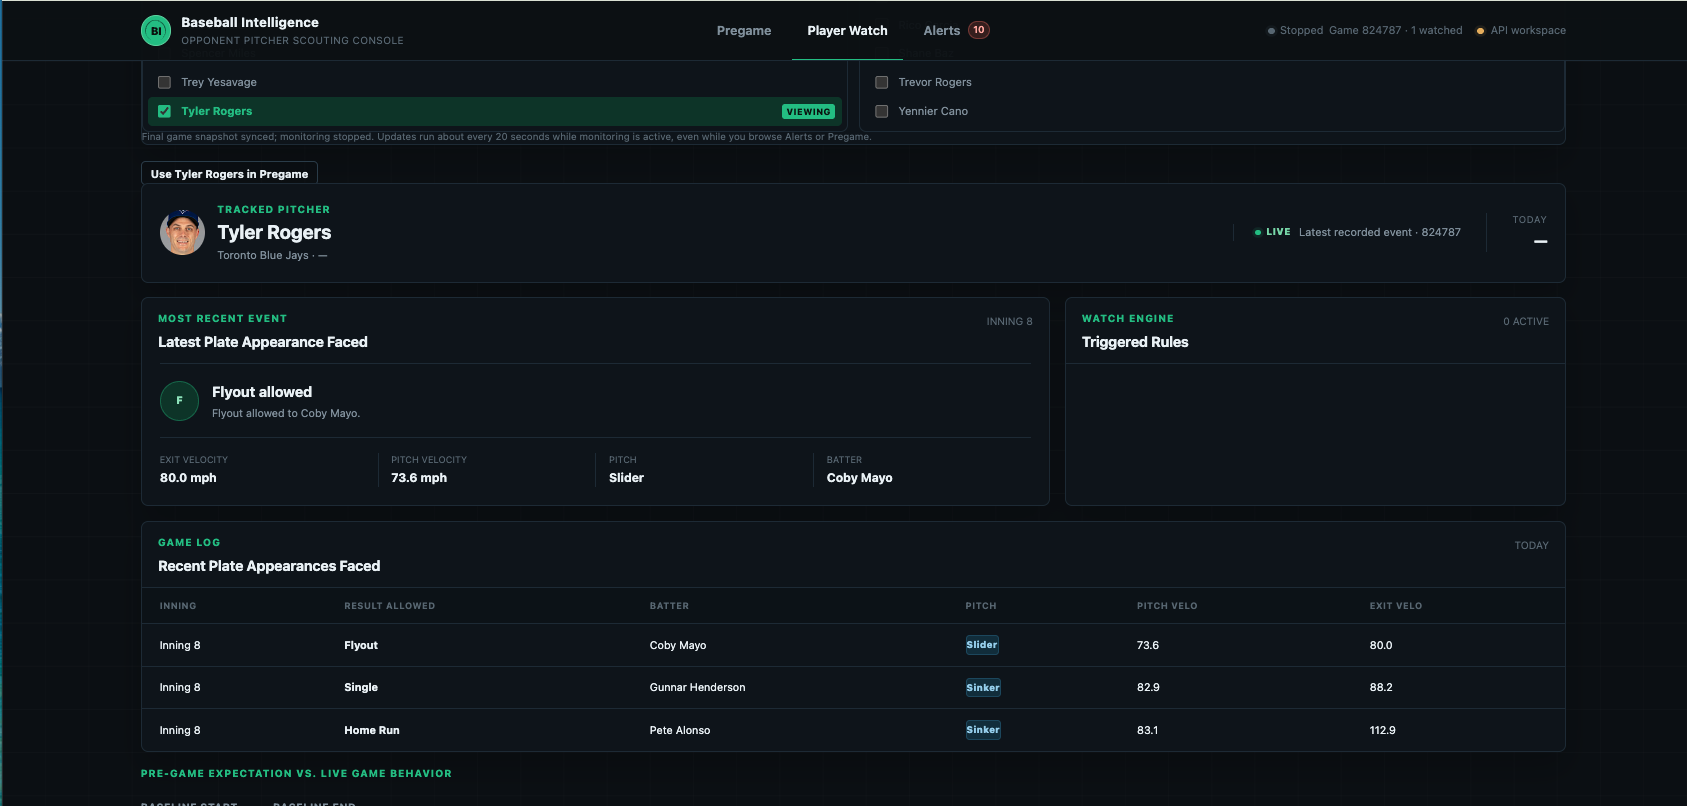
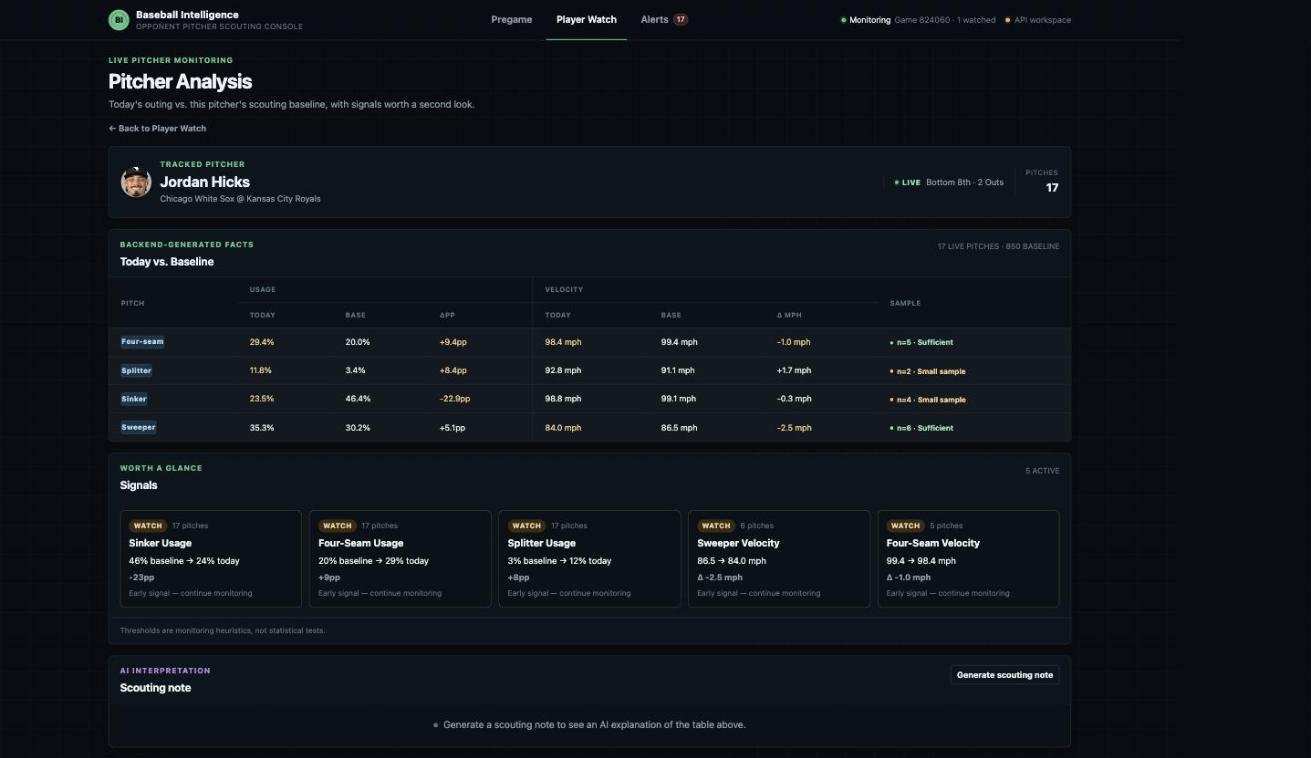
docs: refresh README screenshots for the Player Watch redesign
Replace the outdated Player Watch screenshot with fresh captures from a
live MLB game (White Sox @ Royals, Jordan Hicks): the Pitcher Analysis
view (today vs. baseline with WATCH signals) now leads as the hero image,
with the Live Now discovery view and the pregame brief moved into
collapsed details sections with accurate captions.

diff --git a/README.md b/README.md
@@ -9,18 +9,27 @@ A live opponent-pitcher monitoring tool that compares current pitch behavior
 against the pitcher's historical Statcast baseline and automatically surfaces
 meaningful changes — deterministic stats first, Gemini for narration only.
 
-![Opponent Pitcher Scouting — pregame brief](docs/images/pregame-scouting.png)
+![Pitcher Analysis — today vs. baseline with WATCH/ALERT signals](docs/images/live-pitcher-watch.png)
 
 **[Try the live demo →](https://taiwanese-baseball-watch.vercel.app)**
 Open **Player Watch**, pick a live game's current pitcher, and see today vs.
 his baseline — or open any completed game from the Final list.
 
 <details>
-<summary>Live pitcher monitoring screenshot</summary>
+<summary>Live Now discovery screenshot</summary>
 
-![Live Pitcher Watch — baseline vs. live](docs/images/live-pitcher-watch.png)
+![Player Watch — Live Now cards with score, inning/outs, and current pitcher](docs/images/player-watch-live-now.png)
 
-A pitcher's live outing compared against his Statcast baseline. (Screenshot predates the Player Watch redesign.)
+Player Watch's landing view: every game live right now, one click from its pitcher's analysis.
+
+</details>
+
+<details>
+<summary>Pregame scouting brief screenshot</summary>
+
+![Opponent Pitcher Scouting — pregame brief](docs/images/pregame-scouting.png)
+
+The pregame brief for a probable starter: pitch mix, velocity, and count tendencies from the same Statcast baseline.
 
 </details>
 
